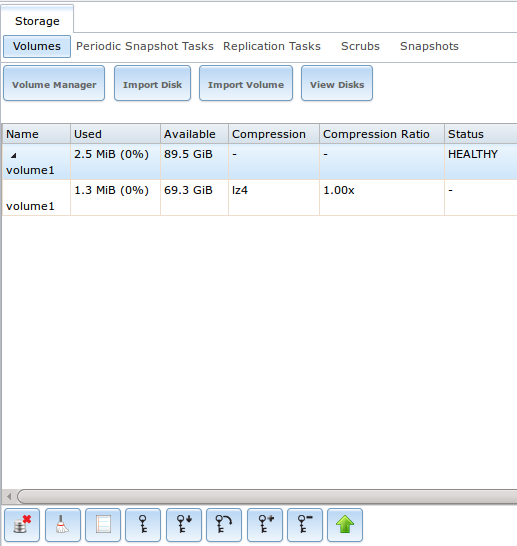
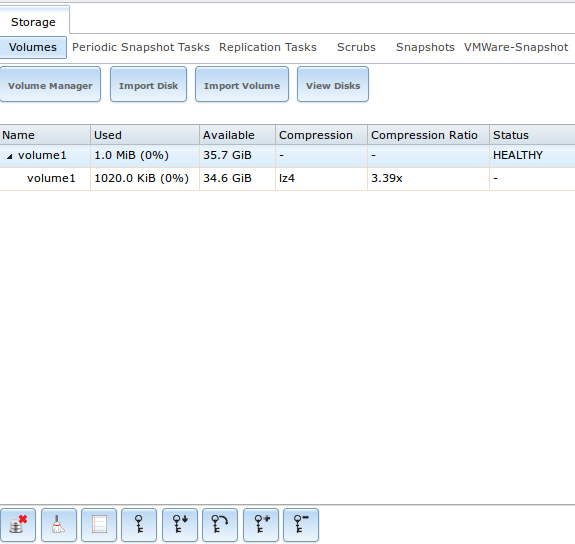
Add missing image and description for vmware snapshots.

Changed region(s): [[0.0, 0.2188, 1.0, 1.0], [0.0, 0.0, 1.0, 0.1875]]

diff --git a/docs/userguide/freenas_storage.rst b/docs/userguide/freenas_storage.rst
@@ -799,8 +799,8 @@ If you check the "Encryption" box during the creation of a pool, five additional
 |encrypt.png|
 
 .. |encrypt.png| image:: images/encrypt.png
-    :width: 4.3in
-    :height: 4.6in
+    :width: 4.8in
+    :height: 4.5in
 
 In order from left to right, these additional encryption buttons are used to:
 
@@ -1588,16 +1588,16 @@ changed since the snapshot was taken will be reverted back to their state at the
 .. note:: rollback is a potentially dangerous operation and will cause any configured replication tasks to fail as the replication system uses the existing
    snapshot when doing an incremental backup. If you do need to restore the data within a snapshot, the recommended steps are:
 
-#.  Clone the desired snapshot.
+   #.  Clone the desired snapshot.
 
-#.  Share the clone with the share type or service running on the FreeNAS® system.
+   #.  Share the clone with the share type or service running on the FreeNAS® system.
 
-#.  Once users have recovered the needed data, destroy the clone in the Active Volumes tab.
+   #.  Once users have recovered the needed data, destroy the clone in the Active Volumes tab.
 
-This approach will never destroy any on-disk data and has no impact on replication.
+   This approach will never destroy any on-disk data and has no impact on replication.
 
-Periodic snapshots can be configured to appear as Shadow Copies in newer versions of Windows Explorer. Users can access the files in the shadow copy using
-Explorer without requiring any interaction with the FreeNAS® graphical administrative interface.
+Periodic snapshots can be configured to appear as shadow copies in newer versions of Windows Explorer, as described in :ref:`Configuring Shadow Copies`. Users
+can access the files in the shadow copy using Explorer without requiring any interaction with the FreeNAS® graphical administrative interface.
 
 The ZFS Snapshots screen allows you to create filters to view snapshots by selected criteria. To create a filter, click the "Define filter" icon (near the
 text "No filter applied"). When creating a filter:
@@ -1621,11 +1621,14 @@ available snapshots will be listed.
 VMWare Snapshots
 ----------------
 
-:menuselection:`Storage --> VMWare Snapshots` allows you to...
+:menuselection:`Storage --> VMWare Snapshots` allows you to coordinate ZFS snapshots when using VMware as a datastore. Once a "VMWare Snapshot" is created,
+FreeNAS® will automatically snapshot any running VMware virtual machines before taking a scheduled or manual ZFS snapshot of the dataset or zvol backing that
+VMware datastore. The temporary VMware snapshots are then deleted on the VMware side but still exist in the ZFS snapshot and can be used as stable
+resurrection points in that snapshot.  These coordinated snapshots will be listed in :ref:`Snapshots`.
 
-Figure 8.6a shows the menu for adding a VMWare snapshot and Table 8.6a summarizes the available options.
+Figure 8.6a shows the menu for adding a VMware snapshot and Table 8.6a summarizes the available options.
 
-**Figure 8.6a: Adding a VMWare Snapshot**
+**Figure 8.6a: Adding a VMware Snapshot**
 
 |vmware1.png|
 
@@ -1653,6 +1656,6 @@ Figure 8.6a shows the menu for adding a VMWare snapshot and Table 8.6a summarize
 |                |                             |                                                                                                             |
 +----------------+-----------------------------+-------------------------------------------------------------------------------------------------------------+
 | Datastore      | drop-down menu              | after inputting the "Hostname", "Username", and "Password", click the "Fetch Datastores" button to populate |
-|                |                             | the menu; select the datastore to....                                                                       |
+|                |                             | the menu and select the datastore to synchronize with                                                       |
 |                |                             |                                                                                                             |
 +----------------+-----------------------------+-------------------------------------------------------------------------------------------------------------+
